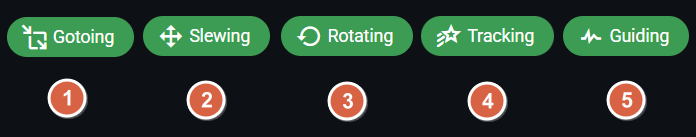
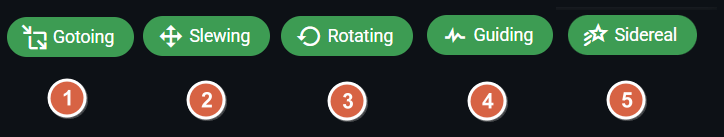
fix(docs): Update the documentation on orbital tracking chips

diff --git a/docs/pilot.md b/docs/pilot.md
@@ -257,12 +257,27 @@ The Status Indicator (a status chip in the top right-hand corner of the Dashboar
 -   **⑥ PreSetup:** This flag or alarm indication appears when the **observing site location (latitude, longitude)** has not been set. No action can be taken with the mount until the location is set.
 
 ![Dashboard indicators part 2](images/dashboard-indicators2.png)
+These indicators reflect the mount’s current motion or tracking mode:
+-   **① Gotoing:** The mount is slewing to a target position following a GOTO command.
+-   **② Slewing:** The mount is executing a manual slew operation.
+-   **③ Rotating:** The mount is actively adjusting its rotation or position angle.
+-   **④ Guiding:** The mount is responding to pulse-guiding commands to refine its tracking.
+-   **⑤ Sidereal:** - Sidereal tracking is enabled. The mount is following the apparent motion of the stars, maintaining fixed equatorial coordinates.
 
--   **① Gotoing:** The mount is proceeding to the GOTO target that was just initiated.
--   **② Slewing:** The mount is executing a manual slew command.
--   **③ Rotating:** The mount is actively changing its rotation angle/position angle.
--   **④ Tracking:** The mount's tracking function is currently enabled. It will be tracking at the current tracking rate, either sidereal, lunar, solar, king or custom.
--   **⑤ Guiding:** The mount's has received a pulse-guiding command and adjusting its tracking accordingly.
+
+
+
+![Dashboard indicators part 3](images/dashboard-indicators3.png)
+When tracking an orbital object, the motion deviates from sidereal tracking. The indicator will instead display the name of the object being tracked:
+-   **① Lunar:** Tracking the Moon’s motion.
+-   **② Solar:** Tracking the Sun’s motion.
+-   **③ Saturn:** Tracking a planetary target.
+-   **④ Titan:** Tracking a planetary moon.
+-   **⑤ ISS (ZARYA):** Tracking the International Space Station.
+-   **⑥ SL-16 R/B:** Tracking a rocket body (spent stage).
+
+
+
 
 ### Motor Indicators
 
